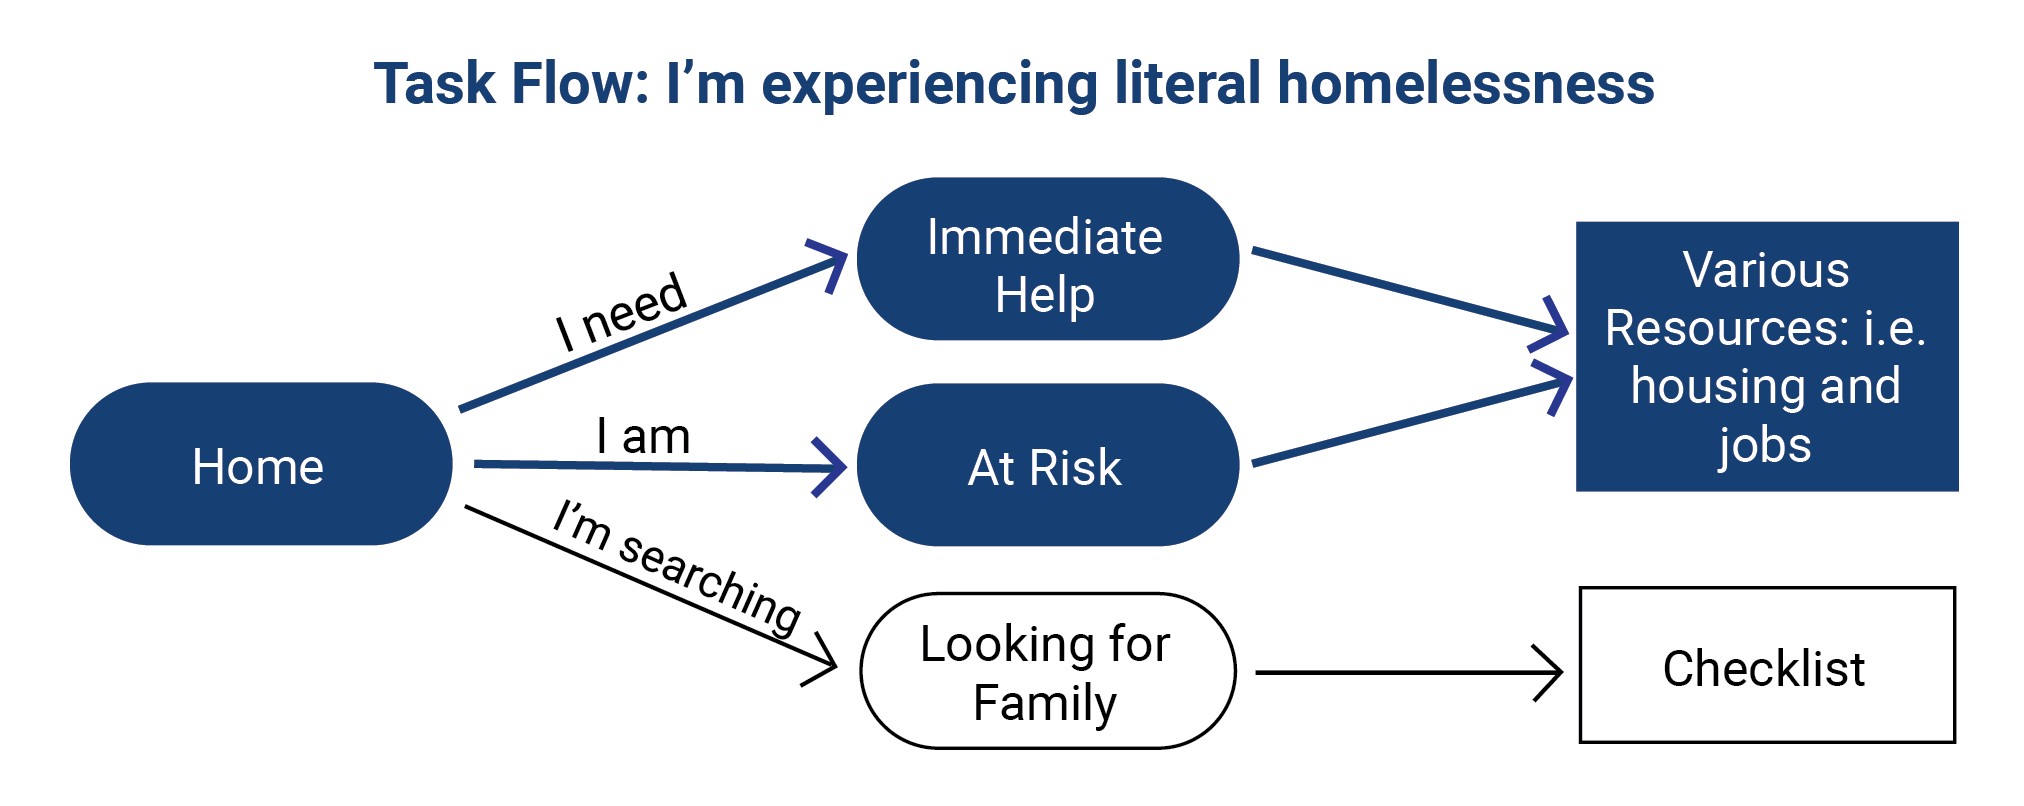
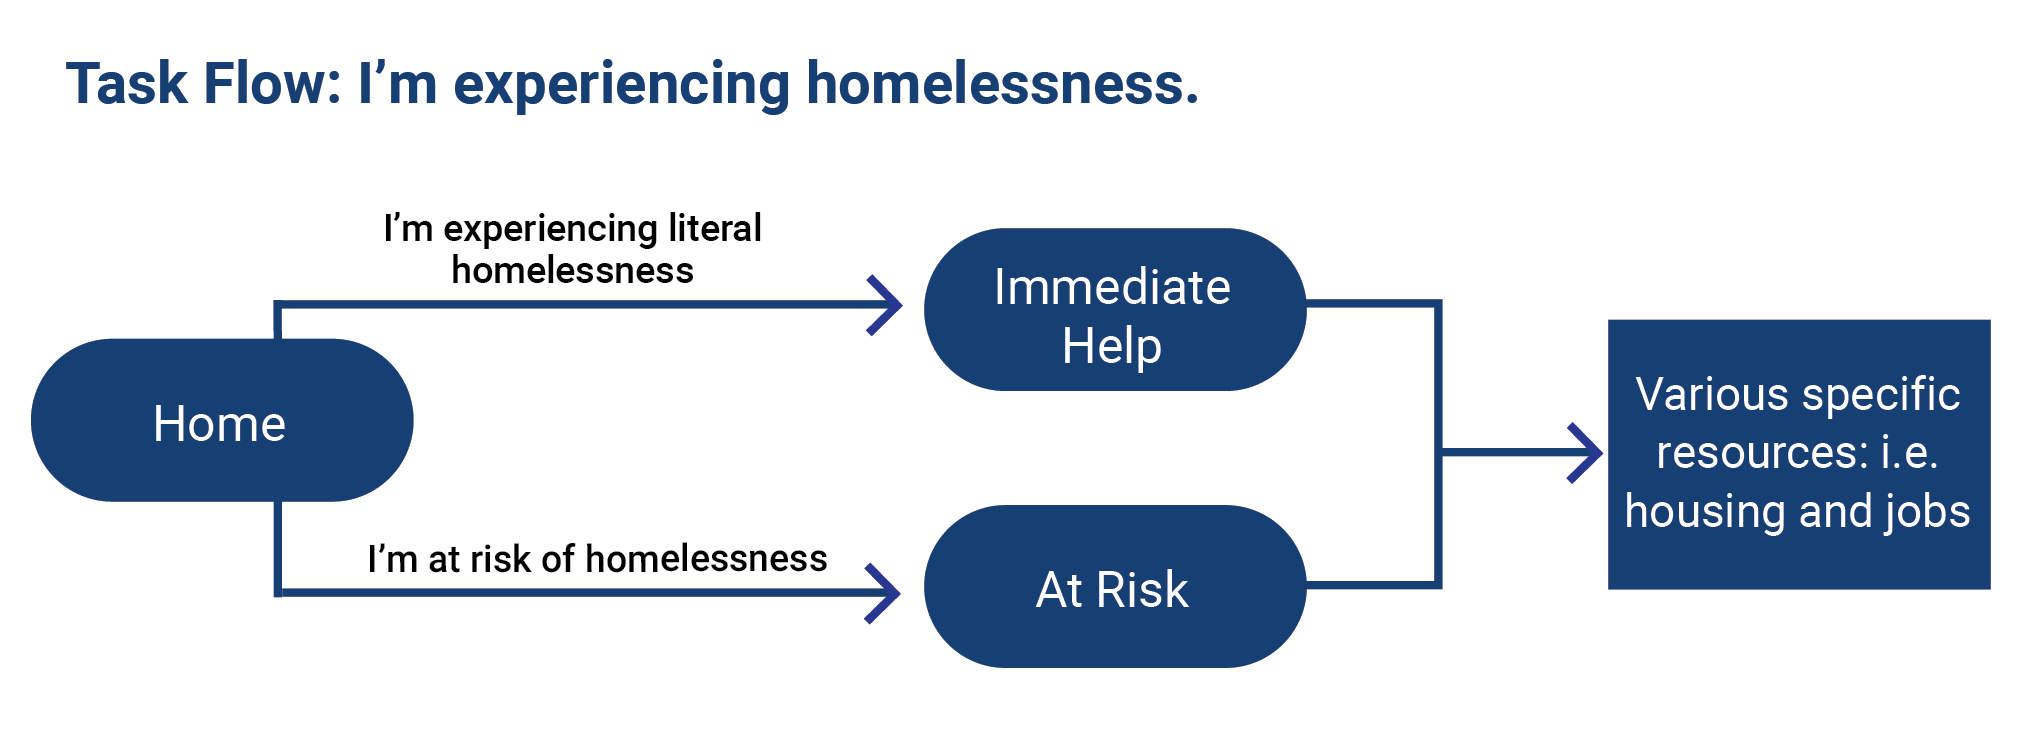
Front Steps update
mainly visuals were changed

diff --git a/case-studies/front-steps.html b/case-studies/front-steps.html
@@ -51,7 +51,7 @@
                     <h5>PROBLEM</h5>
                     <p class="problemStatement">One of the most effective ways of solving homelessness is through prevention. Front Steps' prioritizes solving homelessness by equipping those experiencing it with resources. Yet, their target users are not utilizing the website as a resource to do so.</p>
                     <h5>SOLUTION</h5>
-                    <p>We recommend creating a roadmap to help guide people to the resources they need immediately.</p>
+                    <p>We recommend creating a roadmap to help guide people experiencing homelessness to the resources they need immediately.</p>
                 </div>
             </div>
         </div>
@@ -59,6 +59,9 @@
         <div class="section oddBlock"> <!--Research-->
             <div class="textBlock">
                 <h5>RESEARCH</h5>
+            </div>
+            <img src="../img/portfolio/FrontSteps/FrontSteps_AsIs.png" alt="FrontSteps As-Is" class="portfolioImg">
+            <div class="textBlock">
                 <p>Our team worked with a lot of assumptions until meeting with our stakeholders. We were informed that most of the information on the website needs to be updated. This meant that we were effectively working with a blank slate to breath new life into the site. Below are their top 3 criteria:</p>
             </div>
             <img src="../img/portfolio/FrontSteps/FS_StakeholderInsights-19.png" alt="Stakeholder Takeaways" class="portfolioImg">
@@ -71,7 +74,7 @@
         <div class="section"> <!--Definition-->
             <div class="textBlock">
                 <h5>DEFINITION</h5>
-                <p>We synthesized our data and created a user persona to better empathize with the user.</p>
+                <p>We chose someone who's been living in a longer state of homelessness to get the big picture of their hardships, as they apply to those in less severe cases.</p>
             </div>
             <img src="../img/portfolio/FrontSteps/Hugh-01.png" alt="User Persona" class="portfolioImg">
             <div class="textBlock">
@@ -87,12 +90,12 @@
             </div>
             <img src="../img/portfolio/FrontSteps/sketches2.jpg" alt="Sketches" class="portfolioImg">
             <div class="textBlock">
-                <p>We referred to other non-profit sites as inspiration before sketching. Enclosures and proximity were key to showcase related information here. We ended up with two homepages, an immediate help page, and a job training page that reflects our user flow. In order to move forward, we conducted an A/B Test on the homepage.</p>
+                <p>We referred to other non-profit sites as inspiration before sketching. We ended up with two homepage designs, an immediate help page, and a job training page that reflects our user flow. In order to move forward, we conducted an A/B Test on the homepage.</p>
             </div>
             <img src="../img/portfolio/FrontSteps/FS_ABTesting-21.png" alt="A/B Testing" class="portfolioImg">
             <div class="textBlock">
                 <h3>Branding</h3>
-                <p>Before transitioning to hi-fi, I created a style guide. I used a minimal color pallet to keep things simple and clean as requested by our stakeholders. Additionally, I selected respectful imagery that's symbolic of the context.</p>
+                <p>Before transitioning to hi-fi, I created a style guide. I used a minimal color pallete to keep things simple and clean as requested by our stakeholders. Additionally, I selected respectful imagery that's symbolic of the context.</p>
             </div>
             <img src="../img/portfolio/FrontSteps/FS_StyleTile.png" alt="Style Guide" class="portfolioImg">
             <div class="textBlock">

diff --git a/case-studies/doed.html b/case-studies/doed.html
@@ -66,7 +66,7 @@
                 <h5>RESEARCH</h5>
                 <p>I learned that students are overwhelmed while searching for grants and scholarships on the DoED’s website. From the data collected from my user interviews and accessibility, these are the insights I gathered. </p>
             </div>
-            <img src="../img/portfolio/DoED/UserInsights.png" alt="User Insights" class="portfolioImg">
+            <img src="../img/portfolio/DoED/UserInsights-01.png" alt="User Insights" class="portfolioImg">
             <div class="textBlock">
                 <p>From my own research I could understand why students were frustrated with finding that the grants that applied to them. There's a lack of focus and way too much information.</p>
             </div>
